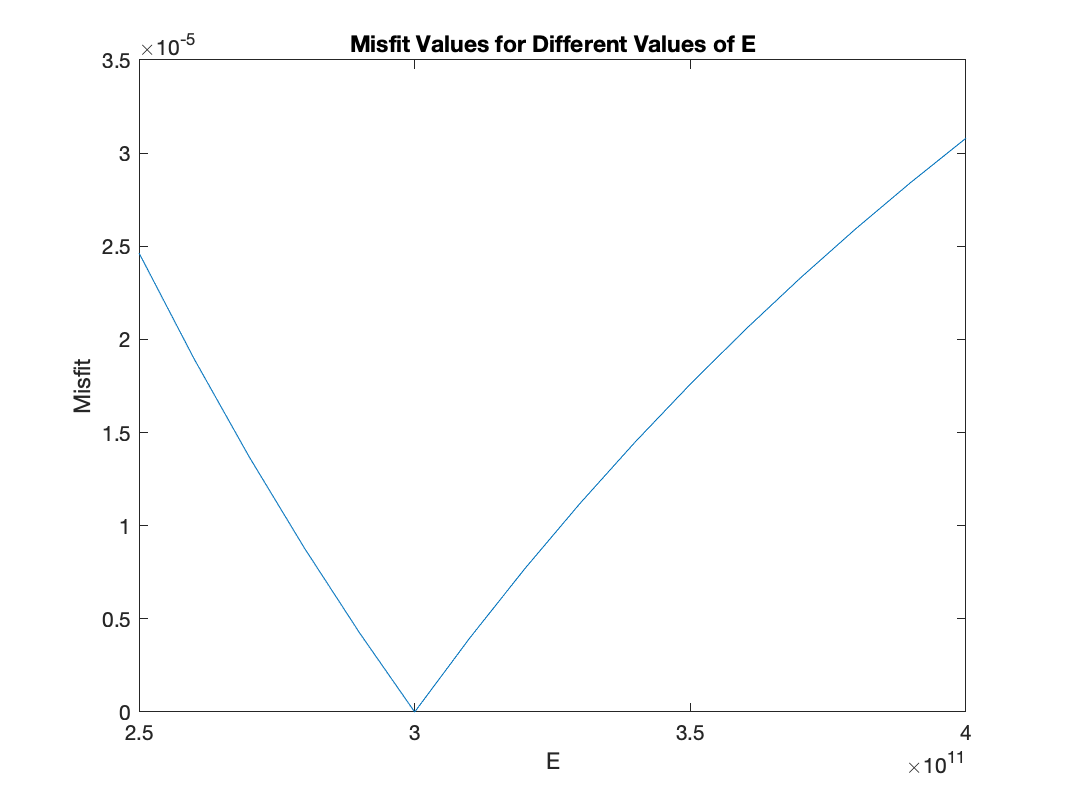
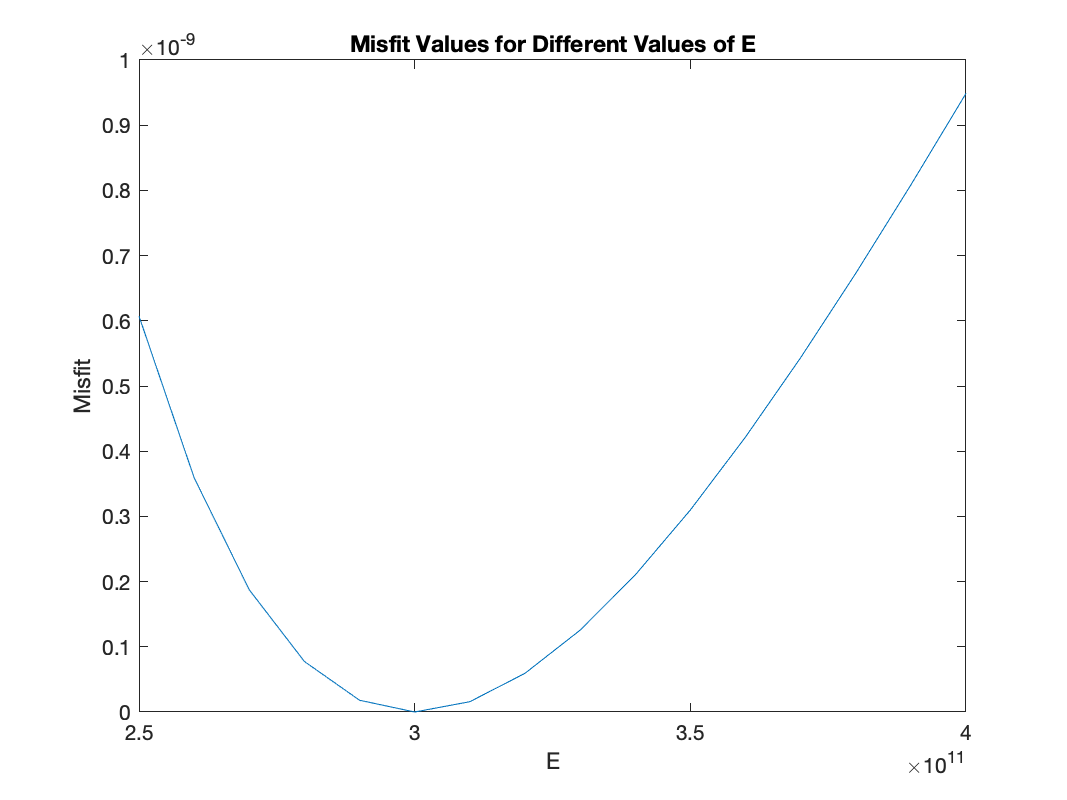
[base] add: fminunc for forward problem (tag:w)

diff --git a/Project/Project.m b/Project/Project.m
@@ -60,12 +60,12 @@ misfit_plotter(e_range, k_range, n_range, epsilon_exp, t, beam, dsigma, 'K');
 fun = @(x) misfit_sig(x, epsilon_exp, t, beam, dsigma);
 
 % Define initial guess and search bounds
-x0 = [100e9; 60e7; 12]; % initial guess
+x0 = [100e9; 60e7; 1]; % initial guess
 
 % Optimization
 options = optimset('Display','iter'); % display iterations
-[x_opt, fval] = fminsearch(fun, x0, options);   % local optimization
-
+[x_opt, fval] = fminsearch(fun, x0, options); 
+[xsol,fval]=fminunc(fun, x0, optimset('Display','iter','TolFun',1e-6,'GradObj','off')) 
 % Display results
 fprintf('Optimal parameter values using fminsearch:\n');
 fprintf('E = %g Pa\n', x_opt(1));

diff --git a/Project/misfit_sig.m b/Project/misfit_sig.m
@@ -10,4 +10,4 @@ epsilon = forana(beamtemp, tn, dsigma);
 %misfit_sig=quad(@discrepancy,tn(1),tn(end),[],0,eps_exp,epsilon,x(3),tn);
 
 % Calculate RMSE/MSE
-misfit_sig = sqrt(mean((epsilon - eps_exp).^2));
+misfit_sig = mean((epsilon - eps_exp).^2);
